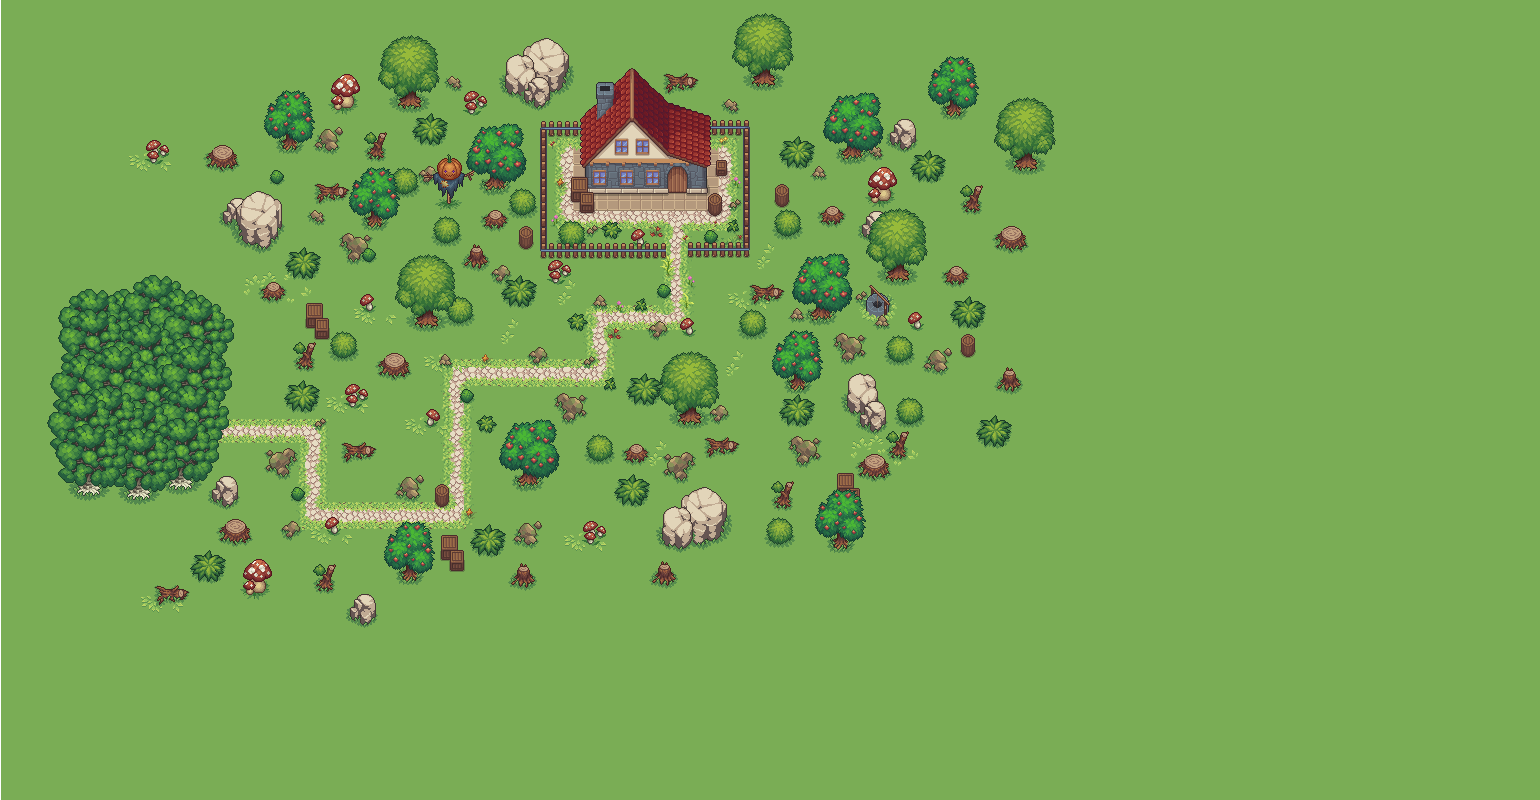
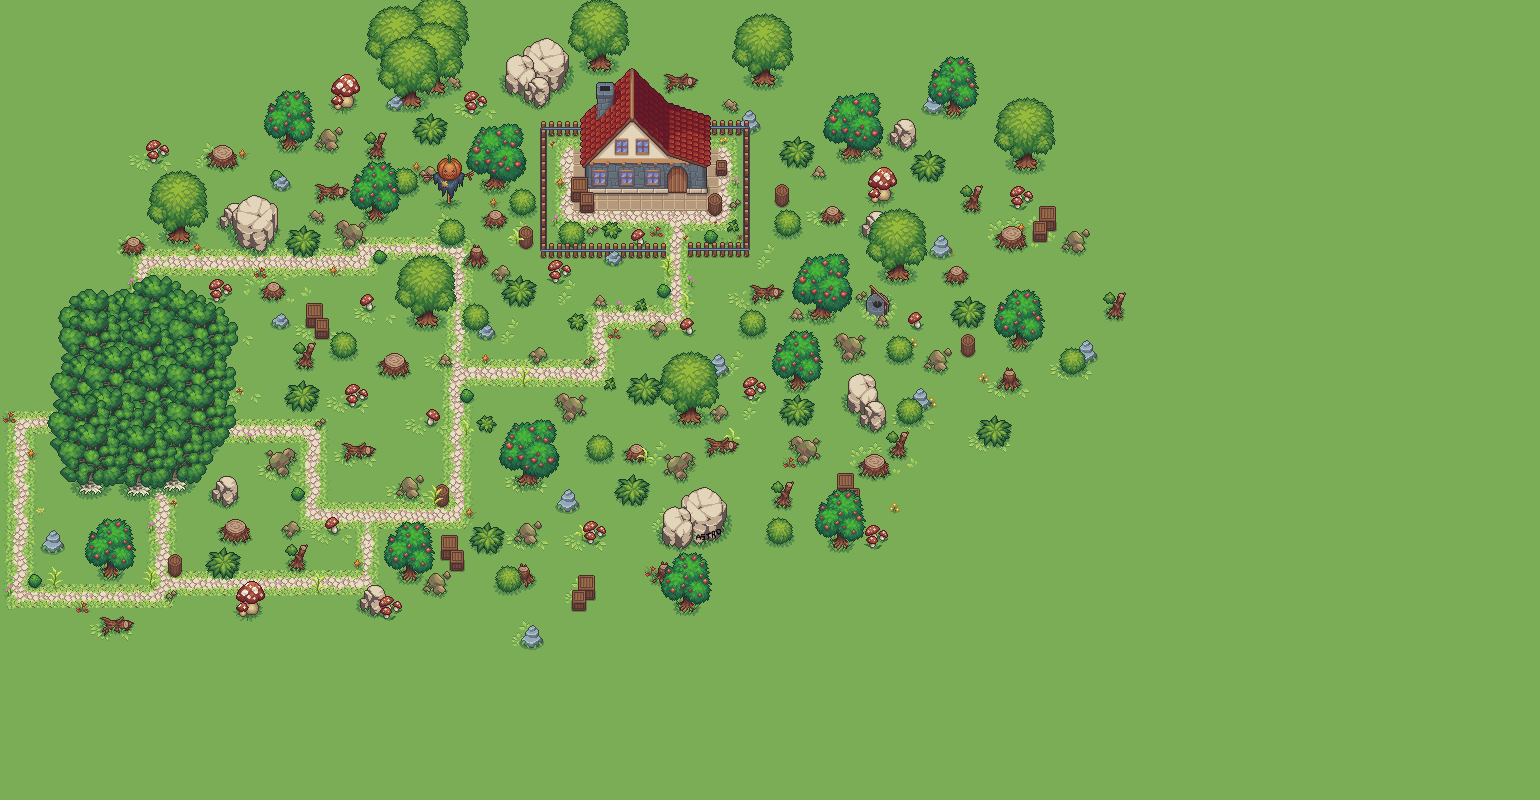
Piccoli aggiustamenti e migliorata la persistenza dei dati del player

diff --git a/src/main/java/it/unicam/cs/mpgc/rpg129851/Controller/BattleController.java b/src/main/java/it/unicam/cs/mpgc/rpg129851/Controller/BattleController.java
@@ -1,36 +1,60 @@
 package it.unicam.cs.mpgc.rpg129851.Controller;
 
+import it.unicam.cs.mpgc.rpg129851.Launch.Main;
 import it.unicam.cs.mpgc.rpg129851.Model.Entity;
 import it.unicam.cs.mpgc.rpg129851.Model.Orc;
-import it.unicam.cs.mpgc.rpg129851.Model.Player;
+import javafx.animation.AnimationTimer;
 import javafx.fxml.FXML;
 import javafx.geometry.Rectangle2D;
 import javafx.scene.image.Image;
 import javafx.scene.image.ImageView;
+import javafx.scene.shape.Rectangle;
 
 import java.util.Objects;
 
 public class BattleController extends LoaderController {
     @FXML
-    private ImageView playerView, orcView;
+    private ImageView playerView, orcView, healthBarViewOrc, healthBarViewPlayer;
     @FXML
     private Image imageOrc, imagePlayer;
+    @FXML
+    private Rectangle healthBarOrc, healthBarPlayer;
     private final int FRAME_WIDTH = 64;
     private final int FRAME_HEIGHT = 64;
-    Player player;
-    Orc orc;
+    AnimationTimer timer;
     public void initialize(){
         super.initialize();
+        timer = new AnimationTimer() {
+            @Override
+            public void handle(long now) {
+                System.out.println(Main.player.getCurrentHp());
+            }
+        };
+        loadHealthBarOrc();
+        loadHealthBarPlayer();
         loadBackground();
+        timer.start();
+    }
+    public void loadHealthBarOrc(){
+        loadHealthBarImage();
+        healthBarViewOrc.setImage(imageHealthBar);
+        healthBarOrc.setWidth((double) (Main.orc.getHealthPercentage() * 130));
+        healthBarOrc.setLayoutX(healthBarViewOrc.getLayoutX() + 50);
+        healthBarOrc.setLayoutY(healthBarViewOrc.getLayoutY() + 113);
+        healthBarViewOrc.setSmooth(false);
+    }
+    public void loadHealthBarPlayer(){
+        loadHealthBarImage();
+        healthBarViewPlayer.setImage(imageHealthBar);
+        healthBarPlayer.setWidth((double) (Main.player.getHealthPercentage() * 130));
+        healthBarPlayer.setLayoutX(healthBarViewPlayer.getLayoutX() + 50);
+        healthBarPlayer.setLayoutY(healthBarViewPlayer.getLayoutY() + 113);
+        healthBarViewPlayer.setSmooth(false);
     }
     public void loadBackground(){
         loadBackground("forestBattle.png");
         backgroundView.setLayoutY(backgroundView.getLayoutY() - 170);
         backgroundView.setLayoutX(backgroundView.getLayoutX() + 30);
-    }
-    public void setData(Entity attacker, Entity defender) {
-        this.player = (Player)attacker;
-        this.orc = (Orc)defender;
     }
 
     public void loadEntity(){

diff --git a/src/main/java/it/unicam/cs/mpgc/rpg129851/Controller/ForestController.java b/src/main/java/it/unicam/cs/mpgc/rpg129851/Controller/ForestController.java
@@ -1,11 +1,12 @@
 package it.unicam.cs.mpgc.rpg129851.Controller;
 
-import it.unicam.cs.mpgc.rpg129851.Model.Orc;
-import javafx.animation.PauseTransition;
+import it.unicam.cs.mpgc.rpg129851.Launch.Main;
+import javafx.animation.*;
 import javafx.fxml.FXML;
 import javafx.geometry.Bounds;
 import javafx.scene.image.Image;
 import javafx.scene.image.ImageView;
+import javafx.scene.shape.Rectangle;
 import javafx.stage.Stage;
 import javafx.util.Duration;
 
@@ -15,10 +16,12 @@ import java.util.Random;
 public class ForestController extends EntityController {
     @FXML
     private ImageView exclamation;
-    Orc orc;
+    @FXML
+    private Rectangle blackScreen;
 
     public void initialize() {
         super.initialize();
+        loadBackground("forestMap.png");
         placeOrcRandomly();
     }
     public void updateLocation() {
@@ -27,7 +30,6 @@ public class ForestController extends EntityController {
     }
     private void placeOrcRandomly(){
         Random rand  = new Random();
-        orc = new Orc(45,65, 20, 10);
 
         double orcWidth = orcView.getBoundsInParent().getWidth();
         double orcHeight = orcView.getBoundsInParent().getHeight();
@@ -45,8 +47,8 @@ public class ForestController extends EntityController {
         orcView.setLayoutY(randomY);
     }
     private void orcCollisionDetection(){
-        Bounds hitboxPlayer = player.getHitbox(playerView.getLayoutX(), playerView.getLayoutY());
-        Bounds hitboxOrc = orc.getHitbox(orcView.getLayoutX(), orcView.getLayoutY());
+        Bounds hitboxPlayer = Main.player.getHitbox(playerView.getLayoutX(), playerView.getLayoutY());
+        Bounds hitboxOrc = Main.orc.getHitbox(orcView.getLayoutX(), orcView.getLayoutY());
         if(hitboxPlayer.intersects(hitboxOrc)) {
             encounterEntity();
         }else{
@@ -57,16 +59,17 @@ public class ForestController extends EntityController {
         loadExclamation();
         orcView.setVisible(true);
         keyPressed.clear();
+        Main.player.takeDamage(25);
         timer.stop();
-        healthBar.setWidth(healthBar.getWidth()*0.25);
-        BattleController battleController = new BattleController();
-        PauseTransition pause = new PauseTransition(Duration.seconds(2.5));
-        pause.setOnFinished(event -> {
-            battleController.setData(player, orc);
+        FadeTransition fadeOut = new FadeTransition(Duration.seconds(2), blackScreen);
+        fadeOut.setFromValue(0.0);
+        fadeOut.setToValue(1.0);
+        fadeOut.setOnFinished(event -> {
             startBattle();
         });
-        pause.play();
+        fadeOut.play();
     }
+
     private void startBattle() {
         exclamation.setVisible(false);
         changeMap((Stage)playerView.getScene().getWindow(), "battle-view");
@@ -81,4 +84,5 @@ public class ForestController extends EntityController {
     private void loadExclamationImage(){
         imageExclamation = new Image(Objects.requireNonNull(getClass().getResourceAsStream("/it/unicam/cs/mpgc/rpg129851/images/exclamation.png")));
     }
+
 }

diff --git a/src/main/java/it/unicam/cs/mpgc/rpg129851/Controller/MapController.java b/src/main/java/it/unicam/cs/mpgc/rpg129851/Controller/MapController.java
@@ -1,13 +1,17 @@
 package it.unicam.cs.mpgc.rpg129851.Controller;
 
 
+import it.unicam.cs.mpgc.rpg129851.Launch.Main;
 import javafx.animation.FadeTransition;
+import javafx.fxml.FXML;
 import javafx.geometry.Bounds;
+import javafx.scene.shape.Rectangle;
 import javafx.stage.Stage;
 import javafx.util.Duration;
 
 public class MapController extends EntityController {
-
+    @FXML
+    private Rectangle blackScreen;
     public void initialize() {
         super.initialize();
         loadBackground("worldMap.png");
@@ -22,16 +26,19 @@ public class MapController extends EntityController {
     }
 
     private void collisionDetectionForest(){
-        Bounds hitboxPlayer = player.getHitbox(playerView.getLayoutX(), playerView.getLayoutY());
+        Bounds hitboxPlayer = Main.player.getHitbox(playerView.getLayoutX(), playerView.getLayoutY());
         Bounds hitboxForest = forest.getBoundsInParent();
         if(hitboxPlayer.intersects(hitboxForest)){
             keyPressed.clear();
             timer.stop();
-            FadeTransition fade = new FadeTransition(Duration.seconds(2), gameWorld);
-            fade.setOnFinished(event -> {
+            FadeTransition fadeOut = new FadeTransition(Duration.seconds(1.5), blackScreen);
+            fadeOut.setFromValue(0.0);
+            fadeOut.setToValue(1.0);
+
+            fadeOut.setOnFinished(event -> {
                 joinForest();
             });
-            fade.play();
+            fadeOut.play();
         }
     }
     private void joinForest(){

diff --git a/src/main/java/it/unicam/cs/mpgc/rpg129851/Controller/LoaderController.java b/src/main/java/it/unicam/cs/mpgc/rpg129851/Controller/LoaderController.java
@@ -1,20 +1,30 @@
 package it.unicam.cs.mpgc.rpg129851.Controller;
 
+import it.unicam.cs.mpgc.rpg129851.Launch.Main;
+import it.unicam.cs.mpgc.rpg129851.Model.Entity;
 import it.unicam.cs.mpgc.rpg129851.Model.Orc;
 import it.unicam.cs.mpgc.rpg129851.Model.Player;
+import javafx.animation.FillTransition;
+import javafx.animation.ParallelTransition;
+import javafx.animation.ScaleTransition;
 import javafx.fxml.FXMLLoader;
 import javafx.geometry.Rectangle2D;
 import javafx.scene.Parent;
 import javafx.scene.Scene;
 import javafx.scene.image.Image;
 import javafx.scene.image.ImageView;
+import javafx.scene.paint.Color;
 import javafx.scene.shape.Rectangle;
 import javafx.stage.Stage;
 
+import javax.print.attribute.standard.Media;
+import java.applet.AudioClip;
+import java.net.URL;
 import java.util.Objects;
 
 public class LoaderController {
-    Player player = new Player( 1, 0, 2);
+
+
     public Rectangle healthBar, forest, home;
     public Image imageUp, imageDown, imageLeft, imageRight, imageOrc, imageExclamation, imageHealthBar;
     public ImageView playerView, healthBarView, backgroundView, orcView;
@@ -24,7 +34,6 @@ public class LoaderController {
     public void initialize() {
         loadImages();
         loadEntity();
-        loadHealthBar();
     }
 
     public void loadEntity(){
@@ -52,6 +61,7 @@ public class LoaderController {
     public void loadHealthBar(){
         loadHealthBarImage();
         healthBarView.setImage(imageHealthBar);
+        healthBar.setWidth((Main.player.getHealthPercentage() * 130));
         healthBar.setLayoutX(healthBarView.getLayoutX() + 50);
         healthBar.setLayoutY(healthBarView.getLayoutY() + 113);
         healthBarView.setSmooth(false);
@@ -75,4 +85,5 @@ public class LoaderController {
     public Image loadBackgroundImage(String backgroundName){
         return  new Image(Objects.requireNonNull(getClass().getResourceAsStream("/it/unicam/cs/mpgc/rpg129851/images/" + backgroundName)));
     }
+
 }

diff --git a/src/main/java/it/unicam/cs/mpgc/rpg129851/Controller/EntityController.java b/src/main/java/it/unicam/cs/mpgc/rpg129851/Controller/EntityController.java
@@ -1,5 +1,6 @@
 package it.unicam.cs.mpgc.rpg129851.Controller;
 
+import it.unicam.cs.mpgc.rpg129851.Launch.Main;
 import it.unicam.cs.mpgc.rpg129851.Model.*;
 import javafx.animation.AnimationTimer;
 import javafx.fxml.*;
@@ -28,6 +29,7 @@ public class EntityController extends LoaderController {
             public void handle(long now) {
                 updateLocation();
                 updateAnimation(now);
+                loadHealthBar();
             }
         };
         timer.start();
@@ -61,8 +63,8 @@ public class EntityController extends LoaderController {
 
         collisionDetection(gameWorld, newX, newY);
 
-        if(!player.getHitbox(newX, oldY).intersects(hitboxHome)) {playerView.setLayoutX(newX);}
-        if(!player.getHitbox(playerView.getLayoutX(), newY).intersects(hitboxHome)) {playerView.setLayoutY(newY);}
+        if(!Main.player.getHitbox(newX, oldY).intersects(hitboxHome)) {playerView.setLayoutX(newX);}
+        if(!Main.player.getHitbox(playerView.getLayoutX(), newY).intersects(hitboxHome)) {playerView.setLayoutY(newY);}
     }
     private void collisionDetection(Pane obstacle, double x, double y) {
         if(x > obstacle.getWidth() - playerView.getViewport().getWidth()) {
@@ -76,10 +78,10 @@ public class EntityController extends LoaderController {
     public void keyDetectionY(KeyCode keyCode, KeyCode keyCode2) {
         if (keyPressed.contains(keyCode )  || keyPressed.contains(keyCode2)){
             if(keyCode == KeyCode.W || keyCode == KeyCode.UP){
-                newY -= player.getSpeed();
+                newY -= Main.player.getSpeed();
                 playerView.setImage(imageUp);
             }else if(keyCode == KeyCode.S || keyCode == KeyCode.DOWN){
-                newY += player.getSpeed();
+                newY += Main.player.getSpeed();
                 playerView.setImage(imageDown);
             }
             moving = true;
@@ -89,10 +91,10 @@ public class EntityController extends LoaderController {
     public void keyDetectionX(KeyCode keyCode, KeyCode keyCode2) {
         if (keyPressed.contains(keyCode)  || keyPressed.contains(keyCode2)){
             if(keyCode == KeyCode.A || keyCode == KeyCode.LEFT){
-                newX -= player.getSpeed();
+                newX -= Main.player.getSpeed();
                 playerView.setImage(imageLeft);
             }else if(keyCode == KeyCode.D || keyCode == KeyCode.RIGHT){
-                newX += player.getSpeed();
+                newX += Main.player.getSpeed();
                 playerView.setImage(imageRight);
             }
             moving = true;

diff --git a/src/main/java/it/unicam/cs/mpgc/rpg129851/Model/Entity.java b/src/main/java/it/unicam/cs/mpgc/rpg129851/Model/Entity.java
@@ -5,11 +5,11 @@ import java.util.Random;
 
 public abstract class Entity {
     String name;
-    int hp;
+    int hp, maxHp;
     int strength;
     int defense;
-    public Entity(String name, int hp,  int strength, int defense) {
-        if(name == null || hp <= 0 || strength <= 0 || defense <= 0) {
+    public Entity(String name, int maxHp, int hp,  int strength, int defense) {
+        if(name == null || maxHp < hp || hp <= 0 || strength <= 0 || defense <= 0) {
             throw new IllegalArgumentException("Entity invalid");
         }else{
             this.name = name;
@@ -33,6 +33,9 @@ public abstract class Entity {
             System.out.println("COLPO CRITICO!");
         }
         target.takeDamage(finalDamage);
+    }
+    public int getMaxHp() {
+        return maxHp;
     }
     public double getHealthPercentage() {
         return (double) this.hp / 100;

diff --git a/src/main/java/it/unicam/cs/mpgc/rpg129851/Interfaces/EntityHitbox.java b/src/main/java/it/unicam/cs/mpgc/rpg129851/Interfaces/EntityHitbox.java
@@ -1,0 +1,7 @@
+package it.unicam.cs.mpgc.rpg129851.Interfaces;
+
+import javafx.geometry.Bounds;
+
+public interface EntityHitbox {
+    public Bounds getHitbox(double x, double y);
+}

diff --git a/src/main/java/it/unicam/cs/mpgc/rpg129851/Model/Orc.java b/src/main/java/it/unicam/cs/mpgc/rpg129851/Model/Orc.java
@@ -1,12 +1,13 @@
 package it.unicam.cs.mpgc.rpg129851.Model;
 
+import it.unicam.cs.mpgc.rpg129851.Interfaces.EntityHitbox;
 import javafx.geometry.BoundingBox;
 import javafx.geometry.Bounds;
 
-public class Orc extends Entity {
+public class Orc extends Entity implements EntityHitbox {
     int lootExp;
     public Orc(int lootExp, int hp, int strength, int defense) {
-        super("Orc", hp, strength, defense);
+        super("Orc", 65, hp, strength, defense);
         this.lootExp = lootExp;
     }
     public Bounds getHitbox(double x, double y) {

diff --git a/src/main/java/it/unicam/cs/mpgc/rpg129851/Model/Player.java b/src/main/java/it/unicam/cs/mpgc/rpg129851/Model/Player.java
@@ -1,14 +1,15 @@
 package it.unicam.cs.mpgc.rpg129851.Model;
 
+import it.unicam.cs.mpgc.rpg129851.Interfaces.EntityHitbox;
 import javafx.geometry.BoundingBox;
 import javafx.geometry.Bounds;
 
-public class Player extends Entity {
+public class Player extends Entity implements EntityHitbox {
     int level;
     int experience;
     double speed;
     public Player(int level, int experience, double speed) {
-        super("Player", 100, 25, 15);
+        super("Player", 100, 100, 25, 15);
         if(level < 1 || experience < 0 || speed == 0) {
             throw new IllegalArgumentException("Player invalid");
         }else {

diff --git a/src/main/java/it/unicam/cs/mpgc/rpg129851/Launch/Main.java b/src/main/java/it/unicam/cs/mpgc/rpg129851/Launch/Main.java
@@ -1,5 +1,6 @@
 package it.unicam.cs.mpgc.rpg129851.Launch;
 
+import it.unicam.cs.mpgc.rpg129851.Model.*;
 import javafx.application.Application;
 import javafx.fxml.FXMLLoader;
 import javafx.scene.Parent;
@@ -8,6 +9,8 @@ import javafx.stage.Stage;
 import java.io.IOException;
 
 public class Main extends Application {
+    public static final Player player = new Player(1, 0, 2);
+    public static final Orc orc = new Orc(45,65, 20, 10);
     @Override
     public void start(Stage primaryStage) throws IOException {
         FXMLLoader loader = new FXMLLoader(getClass().getResource("/it/unicam/cs/mpgc/rpg129851/map-view.fxml"));

diff --git a/src/main/java/module-info.java b/src/main/java/module-info.java
@@ -5,10 +5,12 @@ module it.unicam.cs.mpgc.rpg129851 {
     requires org.controlsfx.controls;
     requires javafx.graphics;
     requires javafx.base;
+    requires java.desktop;
 
     opens it.unicam.cs.mpgc.rpg129851 to javafx.fxml;
     exports it.unicam.cs.mpgc.rpg129851.Launch;
     opens it.unicam.cs.mpgc.rpg129851.Launch to javafx.fxml;
     exports it.unicam.cs.mpgc.rpg129851.Controller;
     opens it.unicam.cs.mpgc.rpg129851.Controller to javafx.fxml;
+    opens it.unicam.cs.mpgc.rpg129851.Interfaces to javafx.fxml;
 }